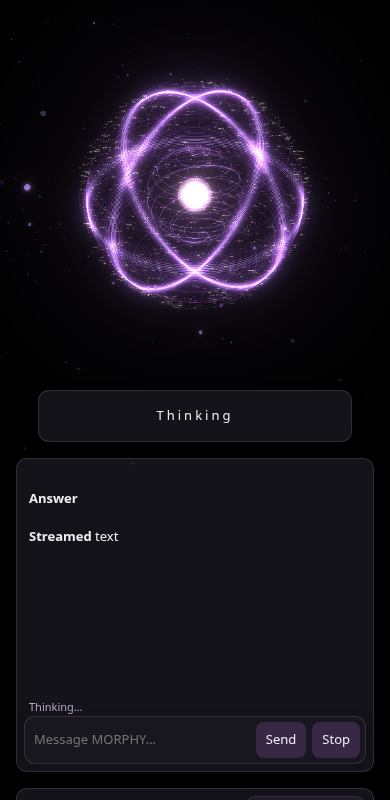
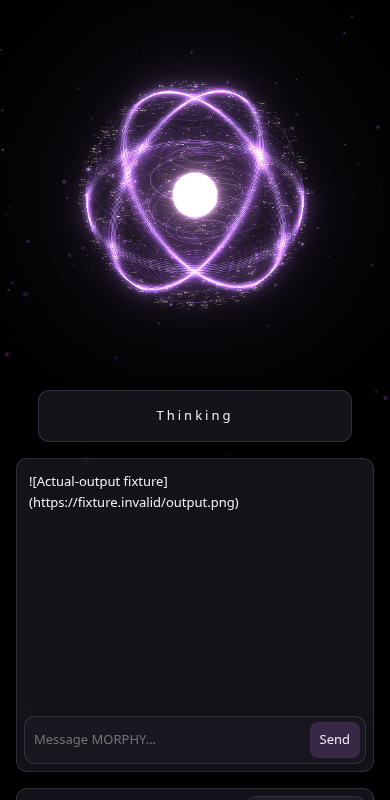
Verify dashboard media controls and defer formatting until stream completion

diff --git a/ui/preview/native-home.js b/ui/preview/native-home.js
@@ -35,7 +35,7 @@ window.chrome?.webview?.addEventListener('message',event=>{
  if(data.type==='dashboard-state'){
   send.disabled=!data.ready;stop.hidden=!data.thinking;status.textContent=data.thinking?'Thinking…':data.ready?'':'Gateway unavailable';
   const nearBottom=responses.scrollHeight-responses.scrollTop-responses.clientHeight<60;
-  for(const item of data.responses||[]){let node=entries.get(item.id);if(!node){node=document.createElement('div');node.className='dashboard-response';entries.set(item.id,node);responses.append(node);}if(node.dataset.text!==item.text){node.dataset.text=item.text;formatResponse(node,item.text);}}
+  for(const item of data.responses||[]){let node=entries.get(item.id);if(!node){node=document.createElement('div');node.className='dashboard-response';entries.set(item.id,node);responses.append(node);}if(node.dataset.text!==item.text||node.dataset.streaming!==String(!!item.streaming)){node.dataset.text=item.text;node.dataset.streaming=String(!!item.streaming);if(item.streaming)node.textContent=item.text;else formatResponse(node,item.text);}}
   for(const [id,node] of entries)if(!(data.responses||[]).some(item=>item.id===id)){node.remove();entries.delete(id);}
   if(nearBottom)responses.scrollTop=responses.scrollHeight;
   processing=!!data.thinking;syncActivity();

diff --git a/scripts/test-dashboard-bridge.py b/scripts/test-dashboard-bridge.py
@@ -13,13 +13,21 @@ with sync_playwright() as p:
  assert page.evaluate("()=>fixtureMessages.at(-1).type")=='dashboard-send'
  page.evaluate("()=>deliver({type:'dashboard-submitted'})");assert page.locator('.dashboard-input input').input_value()==''
  page.evaluate("()=>deliver({type:'dashboard-state',ready:true,thinking:true,responses:[{id:'reply',text:'## Answer\\n**Streamed** text',streaming:true}]})")
- assert page.locator('.dashboard-response strong').inner_text()=='Streamed';assert 'A real draft' not in page.locator('.dashboard-responses').inner_text()
+ assert 'Streamed' in page.locator('.dashboard-response').inner_text();assert 'A real draft' not in page.locator('.dashboard-responses').inner_text()
+ page.evaluate("()=>deliver({type:'dashboard-state',ready:true,thinking:false,responses:[{id:'reply',text:'## Answer\\n**Streamed** text',streaming:false}]})")
+ assert page.locator('.dashboard-response strong').inner_text()=='Streamed'
  page.evaluate("()=>deliver({type:'dashboard-voice-state',state:'listening',transcript:'Live words'})");assert page.locator('.dashboard-transcript').inner_text()=='Live words'
  page.evaluate("()=>deliver({type:'dashboard-voice-state',state:'thinking',transcript:''})");assert page.locator('.dashboard-transcript').inner_text()==''
  page.evaluate("()=>deliver({type:'dashboard-metrics',timestamp:1000,cpu:{usagePercent:25},ram:{usagePercent:50},gpu:20})");assert '25.0%' in page.locator('.dashboard-graph + span').inner_text()
  page.get_by_label('Performance metric').select_option(label='RAM');assert '50.0%' in page.locator('.dashboard-graph + span').inner_text()
  page.get_by_role('button',name='Full Access',exact=True).click();assert page.evaluate('()=>fixtureMessages.at(-1).preset')=='Open'
+ page.evaluate("()=>deliver({type:'dashboard-state',ready:true,thinking:true,responses:[]})")
+ page.locator('.dashboard-input button',has_text='Stop').click();assert page.evaluate('()=>fixtureMessages.at(-1).type')=='dashboard-stop'
[1 lines of base64/hex data omitted]
+ page.evaluate("()=>deliver({type:'dashboard-state',ready:true,thinking:false,responses:[{id:'reply',text:'![Actual-output fixture](https://fixture.invalid/output.png)',streaming:false}]})")
+ assert page.locator('.dashboard-gallery img').count()==1
+ page.locator('.dashboard-gallery button').click();assert page.locator('.dashboard-viewer').is_visible();page.locator('.dashboard-viewer button').click()
  page.screenshot(path=str(out/'fixture-desktop.png'))
  page.set_viewport_size({'width':390,'height':800});page.wait_for_timeout(100);assert not errors,errors;page.screenshot(path=str(out/'fixture-compact.png'))
- print('PASS host-protocol fixture: submission acknowledgement, assistant-only formatting, transcription clear, metrics selector, preset command, resize. This does not test native services.')
+ print('PASS host-protocol fixture: submission acknowledgement, assistant-only formatting, transcription clear, metrics selector, preset command, cancellation command, image viewer, resize. This does not test native services.')
  b.close()
